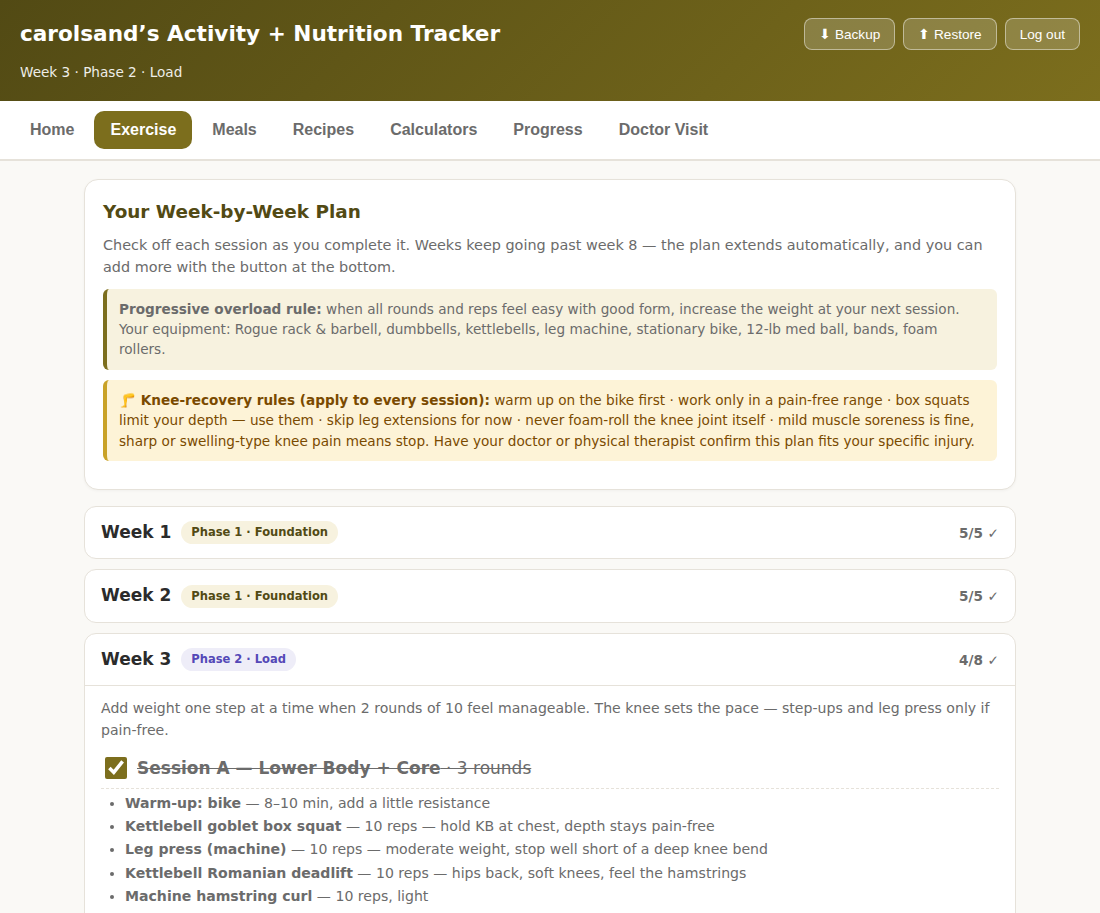
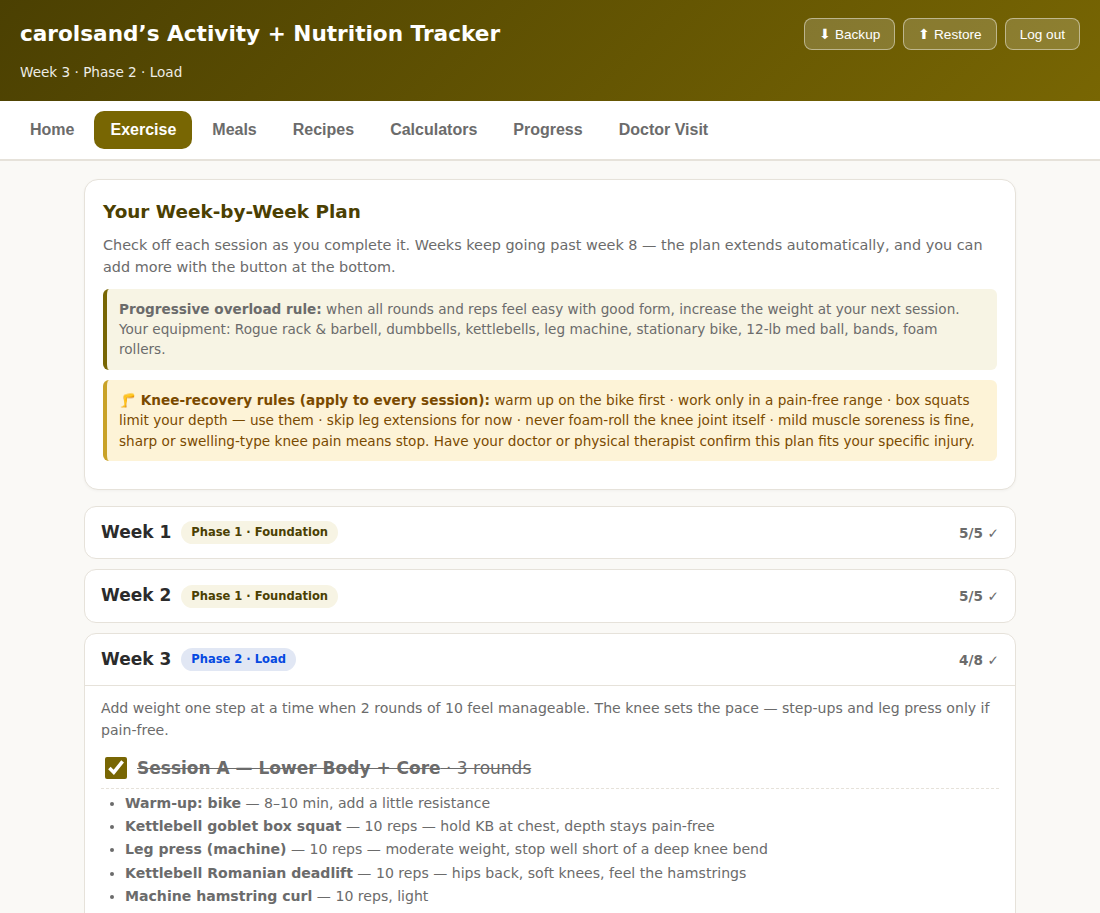
Adjust palette to gold/royal-blue (#F9D406/#6F9BFC)
Third pass hitting the same wall: raw #F9D406 (1.45:1) and #6F9BFC
(2.7:1) both fail white-text contrast badly. Derived same-hue
companions at lower lightness for both roles this time --- dark gold
#786603 (5.7:1) and royal blue #0549e1 (6.9:1) --- rather than reusing
prior derivations, since these are meaningfully different hues/
saturations from the last two rounds.

Updates README graphics and regenerates the real app screenshots.

diff --git a/strength-nutrition-tracker.html b/strength-nutrition-tracker.html
@@ -6,8 +6,8 @@
 <title>Activity + Nutrition Tracker</title>
 <style>
 :root{
-  --accent:#7c6e1d; --accent-dark:#524a14; --accent-light:#f7f2df;
-  --plum:#5448b7; --plum-light:#eeedf8;
+  --accent:#786603; --accent-dark:#4b4002; --accent-light:#f7f4e4;
+  --plum:#0549e1; --plum-light:#e1e7f4;
   --bg:#faf9f6; --card:#ffffff; --ink:#2b2b2b; --muted:#6b6b6b;
   --line:#e6e2da; --good:#2e7d32; --warn:#c62828; --gold:#c9a227;
 }
@@ -1248,9 +1248,9 @@ function drawWeightChart(){
   for(let g=0;g<=4;g++){ const v=lo+(hi-lo)*g/4, yy=y(v);
     ctx.beginPath(); ctx.moveTo(pad.l,yy); ctx.lineTo(W-pad.r,yy); ctx.stroke();
     ctx.fillText(v.toFixed(1), pad.l-6, yy+4); }
-  ctx.strokeStyle="#7c6e1d"; ctx.lineWidth=2.5; ctx.beginPath();
+  ctx.strokeStyle="#786603"; ctx.lineWidth=2.5; ctx.beginPath();
   ws.forEach((w,i)=>{ i?ctx.lineTo(x(i),y(w.lbs)):ctx.moveTo(x(i),y(w.lbs)); }); ctx.stroke();
-  ctx.fillStyle="#7c6e1d";
+  ctx.fillStyle="#786603";
   ws.forEach((w,i)=>{ ctx.beginPath(); ctx.arc(x(i),y(w.lbs),4,0,7); ctx.fill(); });
   ctx.fillStyle="#888"; ctx.textAlign="center";
   ctx.fillText(fmtDate(ws[0].date), x(0)+14, H-8);
@@ -1290,13 +1290,13 @@ function drawBarsChart(id, days, series, targetLine, emptyText){
 function drawProteinChart(){
   const days = last14();
   const vals = days.map(d=>S.meals.filter(m=>m.date===d).reduce((a,m)=>a+(+m.protein||0),0));
-  drawBarsChart("chartProtein", days, [{name:"Protein (g)", values:vals, color:"#7c6e1d"}], proteinRange()[0], "Log meals to see your daily protein here");
+  drawBarsChart("chartProtein", days, [{name:"Protein (g)", values:vals, color:"#786603"}], proteinRange()[0], "Log meals to see your daily protein here");
 }
 function drawCalsChart(){
   const days = last14();
   const eaten = days.map(d=>S.meals.filter(m=>m.date===d).reduce((a,m)=>a+(+m.cals||0),0));
   const burned = days.map(d=>S.activities.filter(a=>a.date===d).reduce((a,x)=>a+x.kcal,0));
-  drawBarsChart("chartCals", days, [{name:"Eaten",values:eaten,color:"#5448b7"},{name:"Burned (exercise)",values:burned,color:"#7c6e1d"}], null, "Log meals and activities to compare calories in vs. out");
+  drawBarsChart("chartCals", days, [{name:"Eaten",values:eaten,color:"#0549e1"},{name:"Burned (exercise)",values:burned,color:"#786603"}], null, "Log meals and activities to compare calories in vs. out");
 }
 function drawWorkoutsChart(){
   const n = Math.min(totalWeeks(), Math.max(currentWeek(),8));
@@ -1311,7 +1311,7 @@ function drawWorkoutsChart(){
   for(let g=0;g<=4;g++){ const v=hi*g/4, yy=y(v); ctx.beginPath(); ctx.moveTo(pad.l,yy); ctx.lineTo(W-pad.r,yy); ctx.stroke(); ctx.fillText(Math.round(v),pad.l-6,yy+4); }
   const slot=(W-pad.l-pad.r)/n;
   vals.forEach((v,i)=>{
-    ctx.fillStyle = (i+1===currentWeek()) ? "#c9a227" : "#7c6e1d";
+    ctx.fillStyle = (i+1===currentWeek()) ? "#c9a227" : "#786603";
     if (v>0) ctx.fillRect(pad.l+slot*i+slot*0.2, y(v), slot*0.6, (H-pad.b)-y(v));
     ctx.fillStyle="#888"; ctx.textAlign="center";
     if (n<=16 || i%2===0) ctx.fillText(labels[i], pad.l+slot*i+slot/2, H-8);
